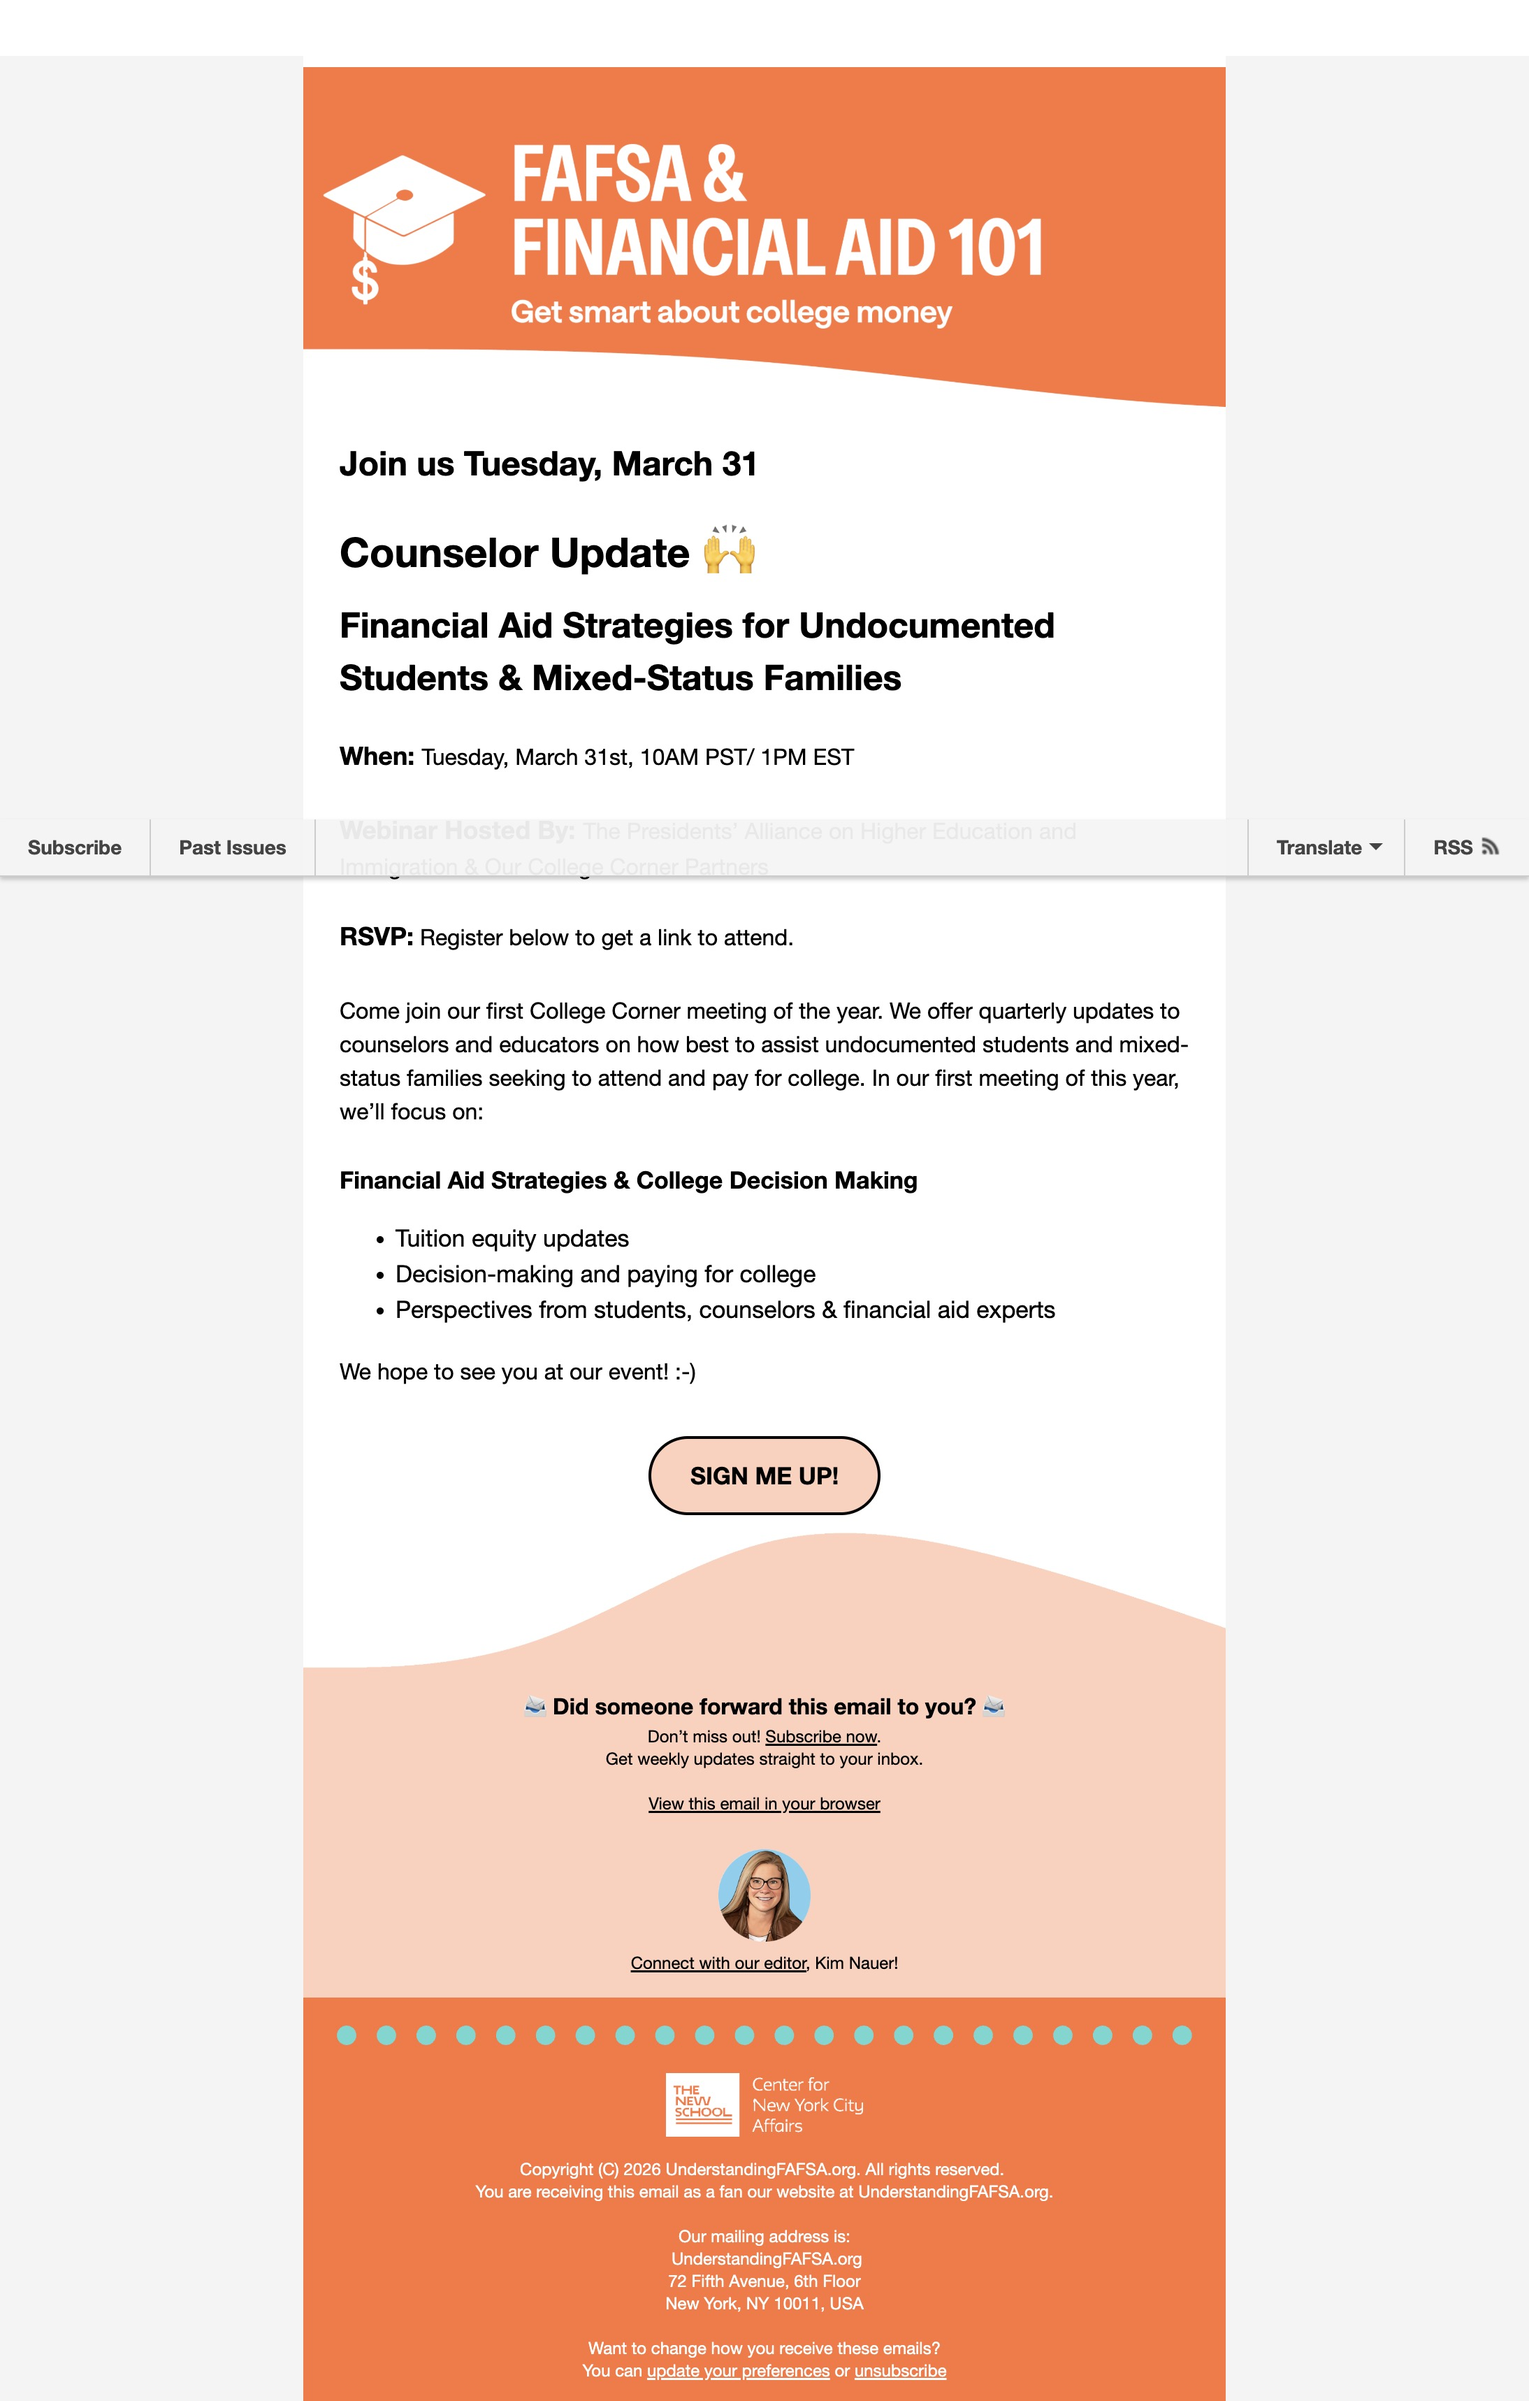
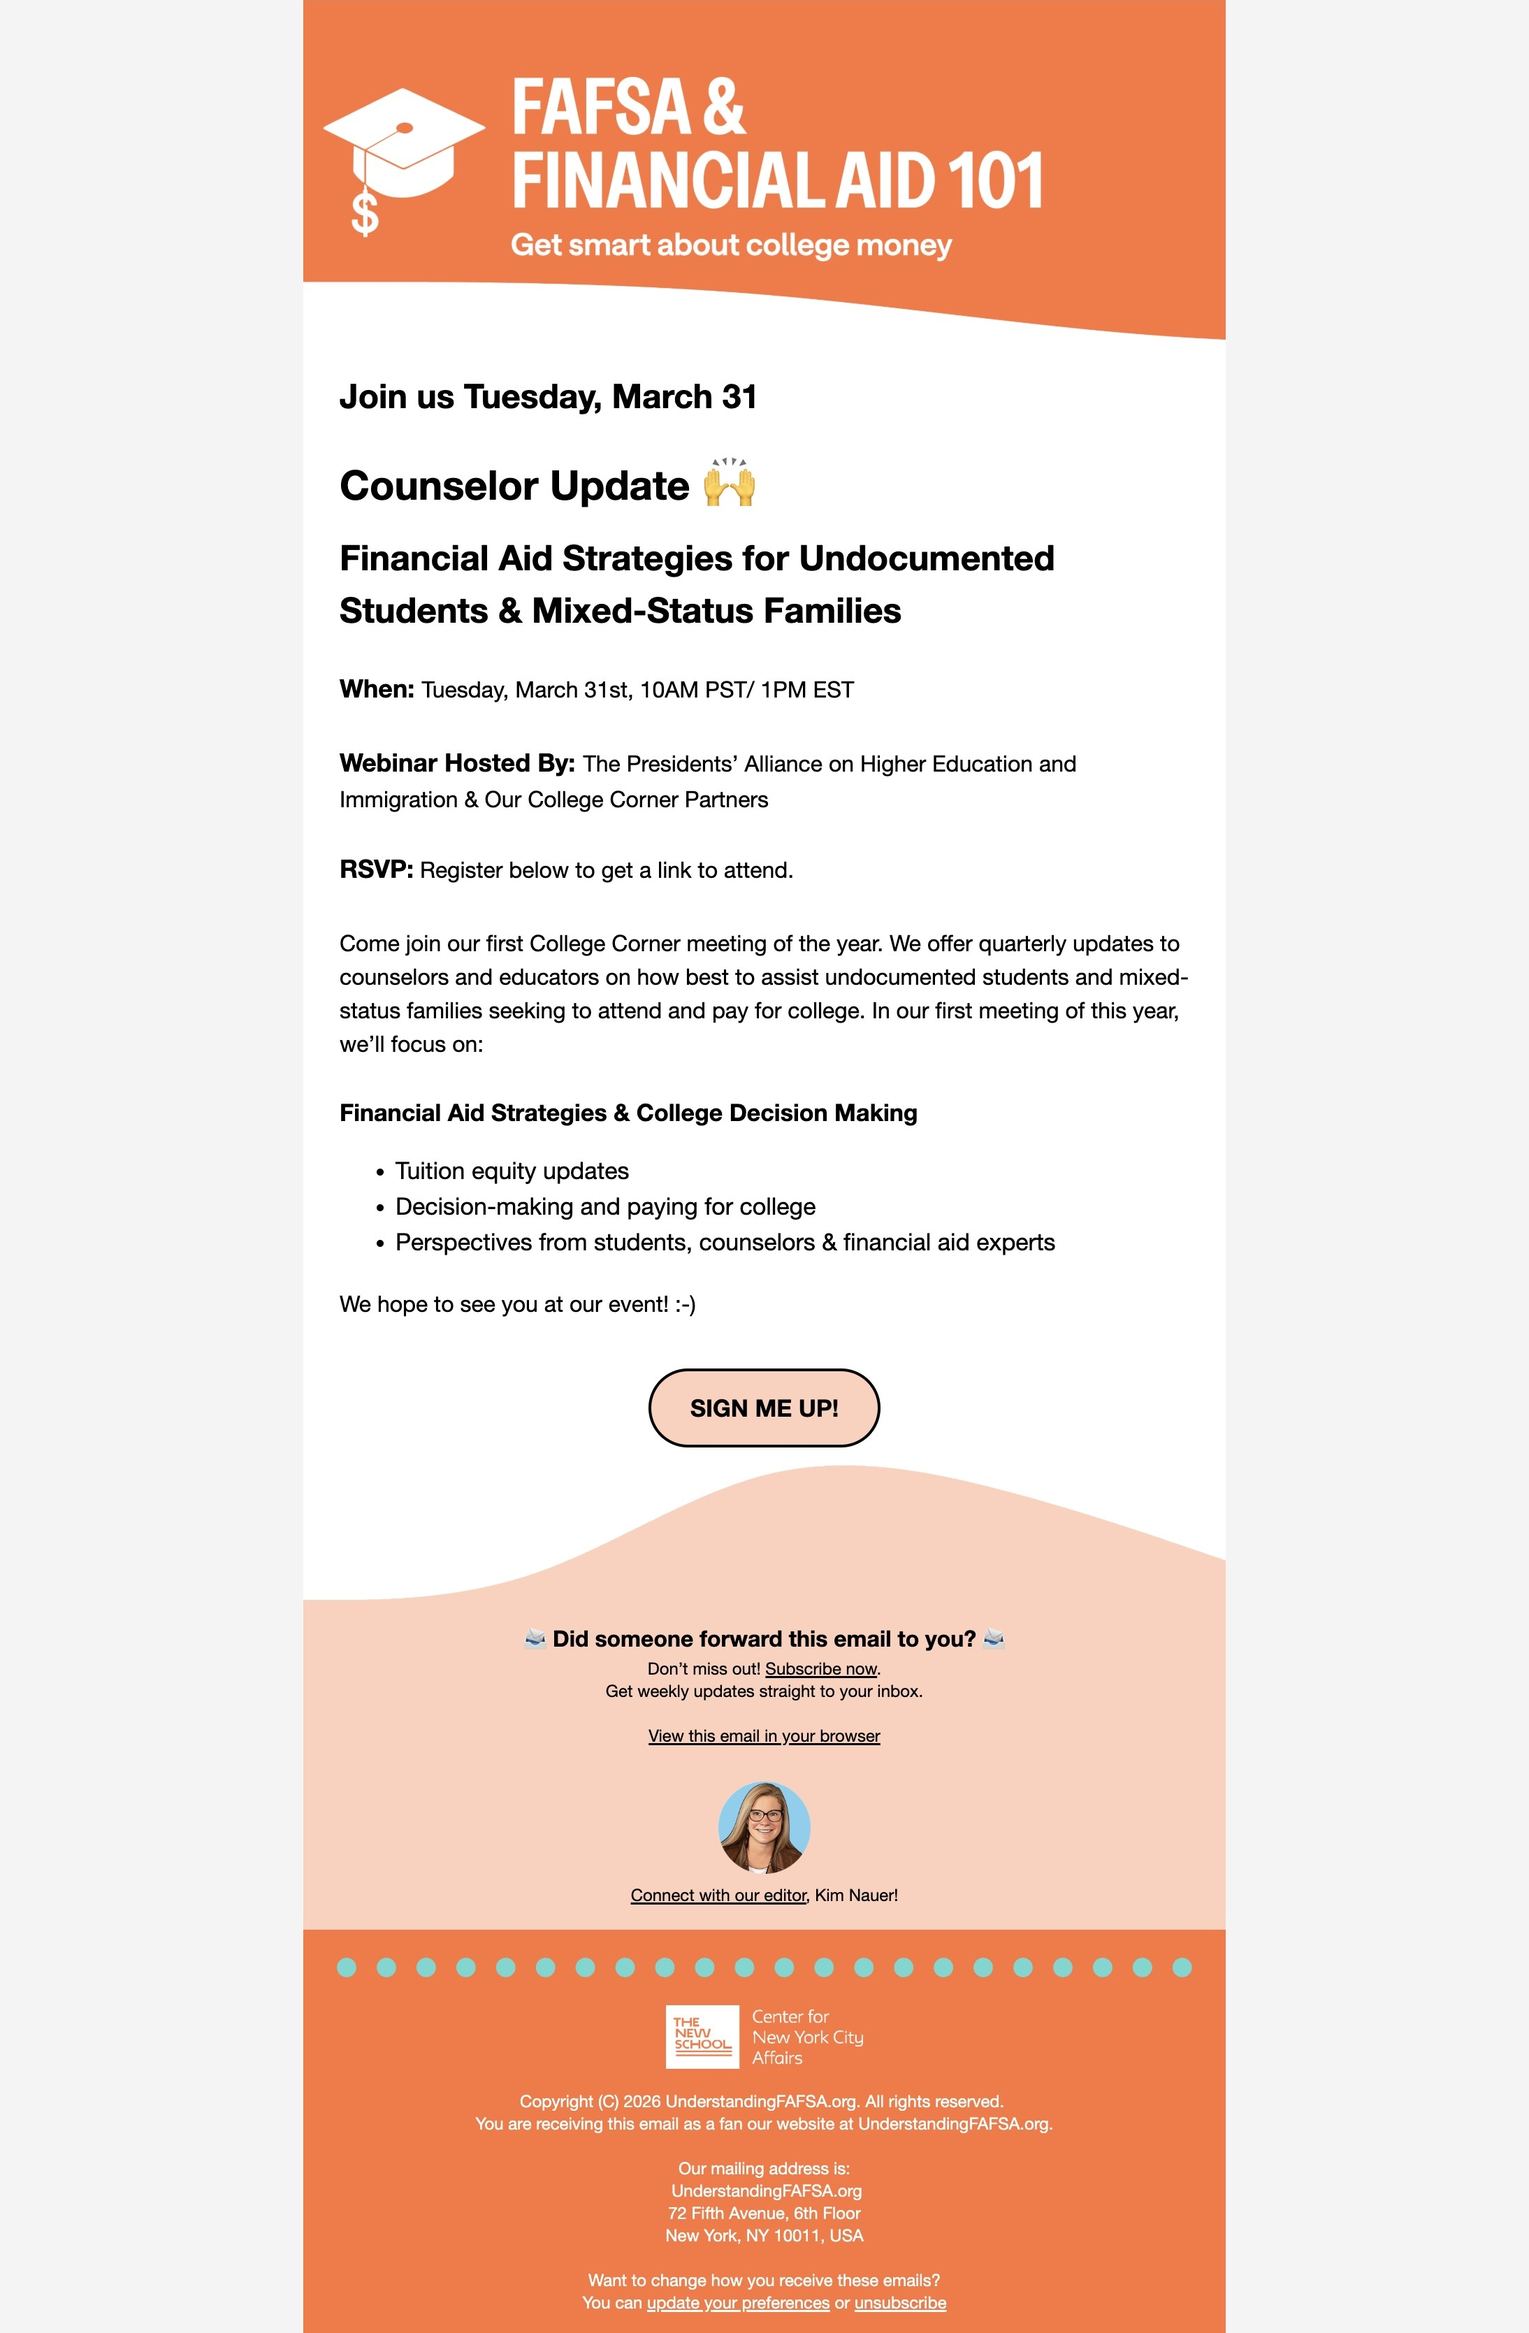
Swap UnderstandingFAFSA event template image, correct its dimensions
The new template-event.jpeg is 2188x3338; the asset manifest still
declared height 3434 from the prior file, which stretched the render
~3% vertically. Update understandingfafsa-assets.ts to the real height.

diff --git a/src/lib/understandingfafsa-assets.ts b/src/lib/understandingfafsa-assets.ts
@@ -33,7 +33,7 @@ export const UF_ASSETS = {
   templateEvent: {
     src: `${UF_ASSET_BASE}/template-event.jpeg`,
     width: 2188,
-    height: 3434,
+    height: 3338,
   },
 
   /** §04 — locked vs swappable annotated exports from Figma */
